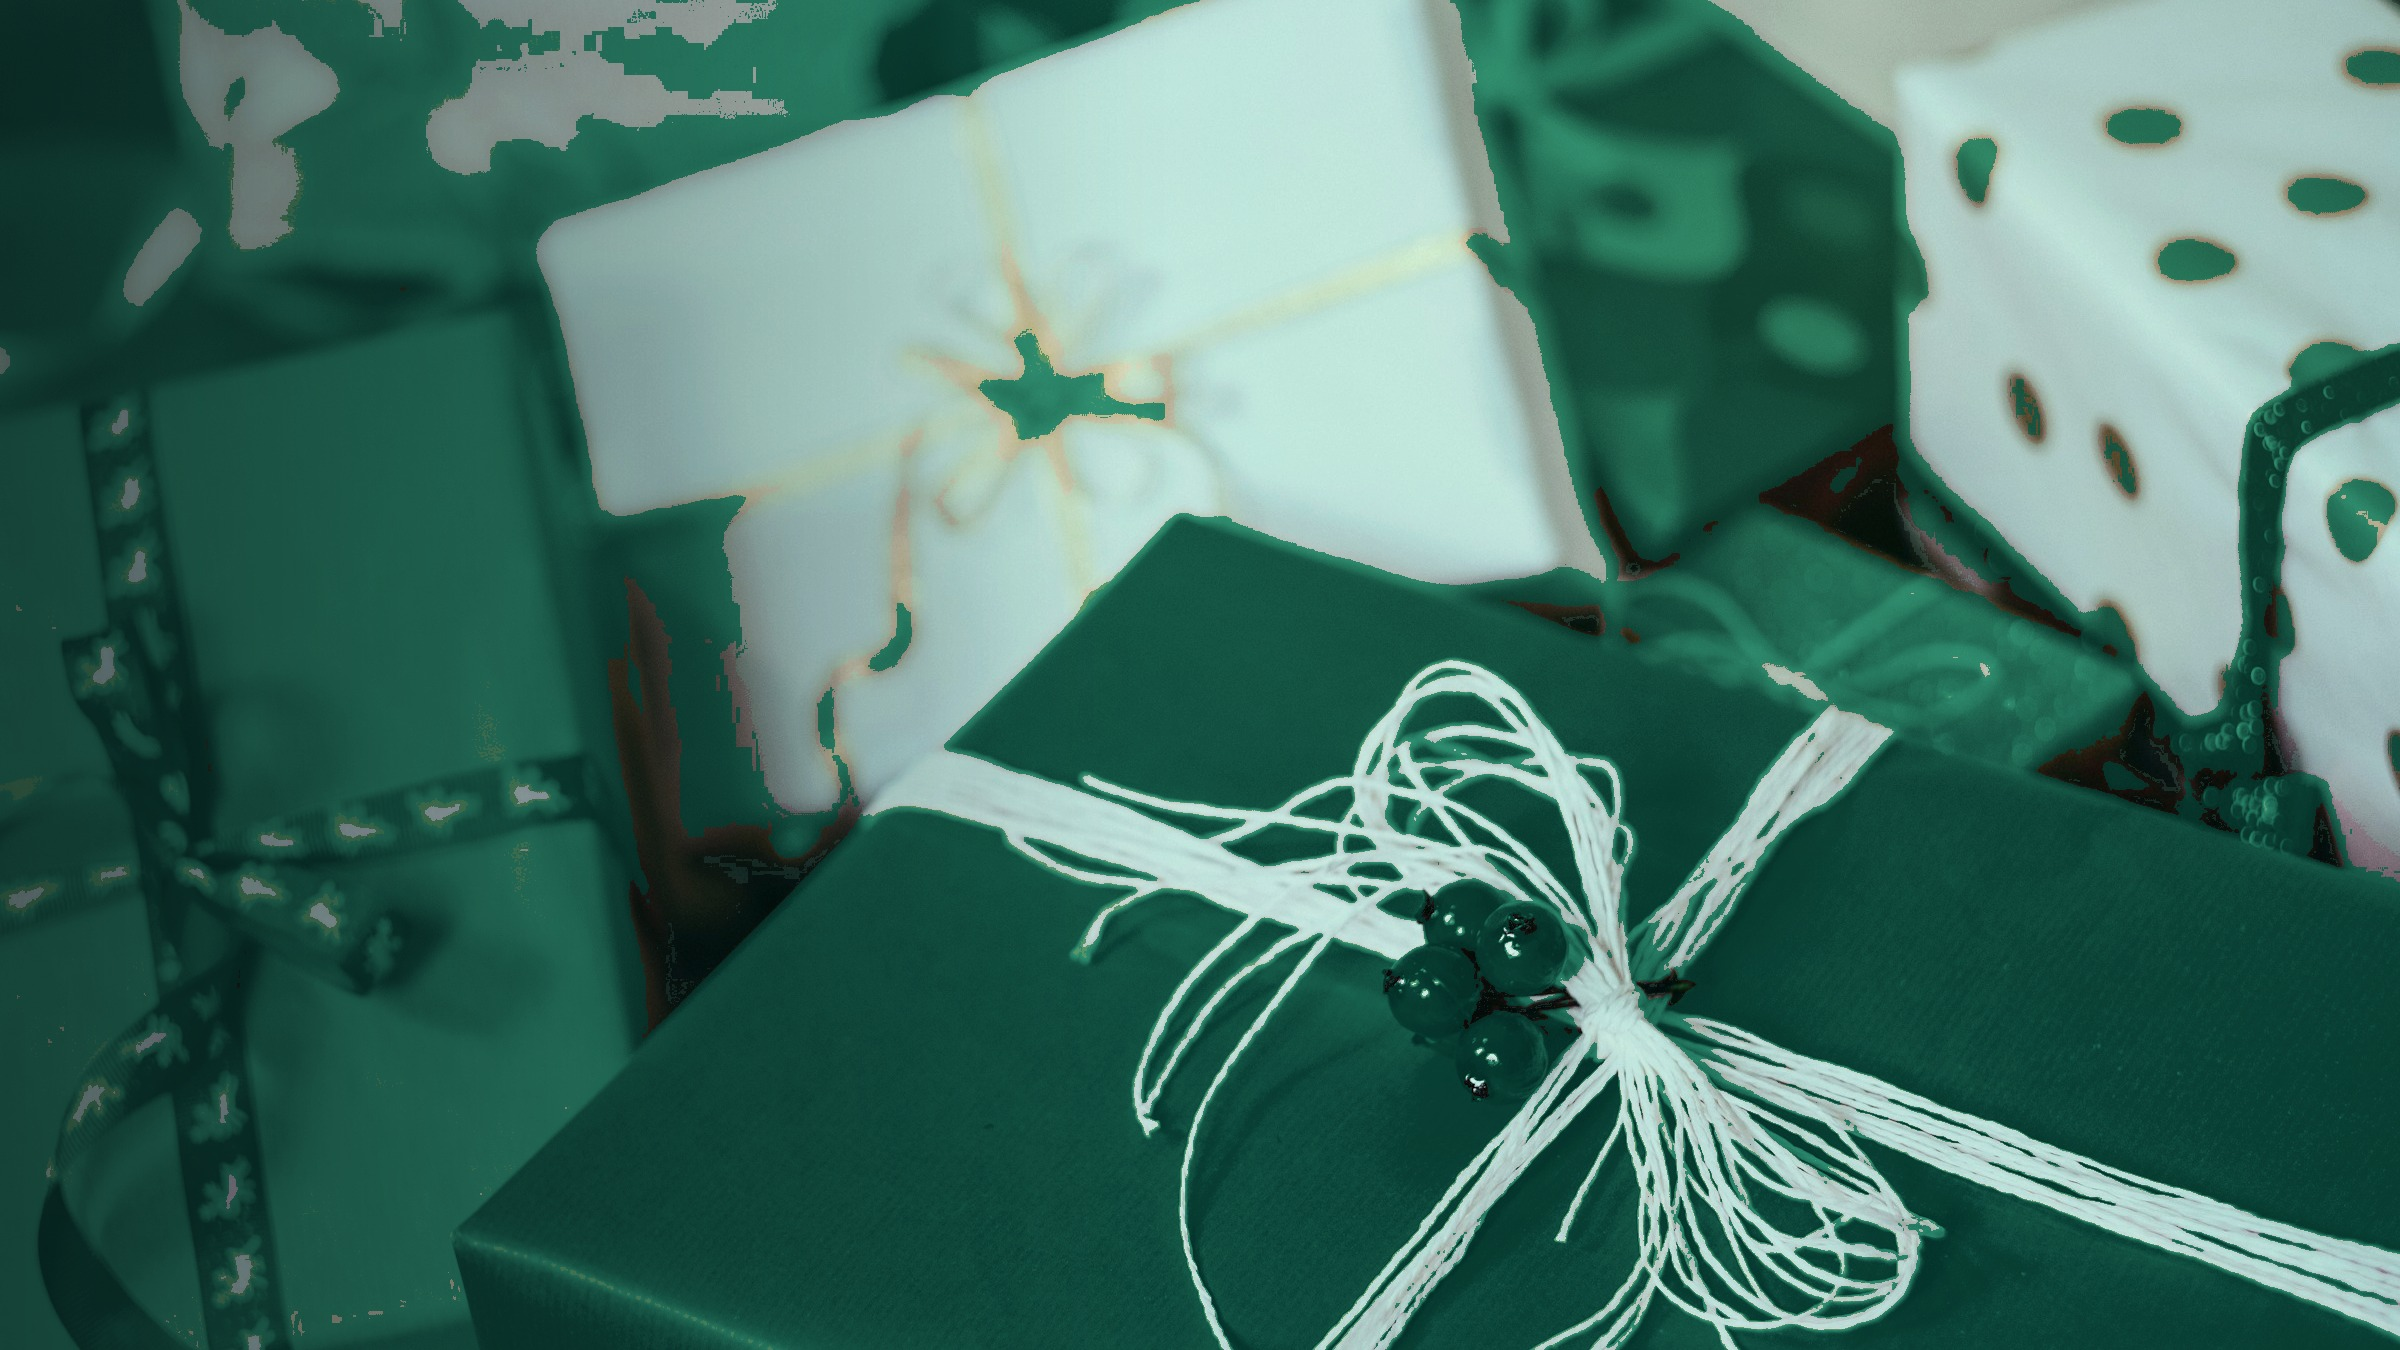
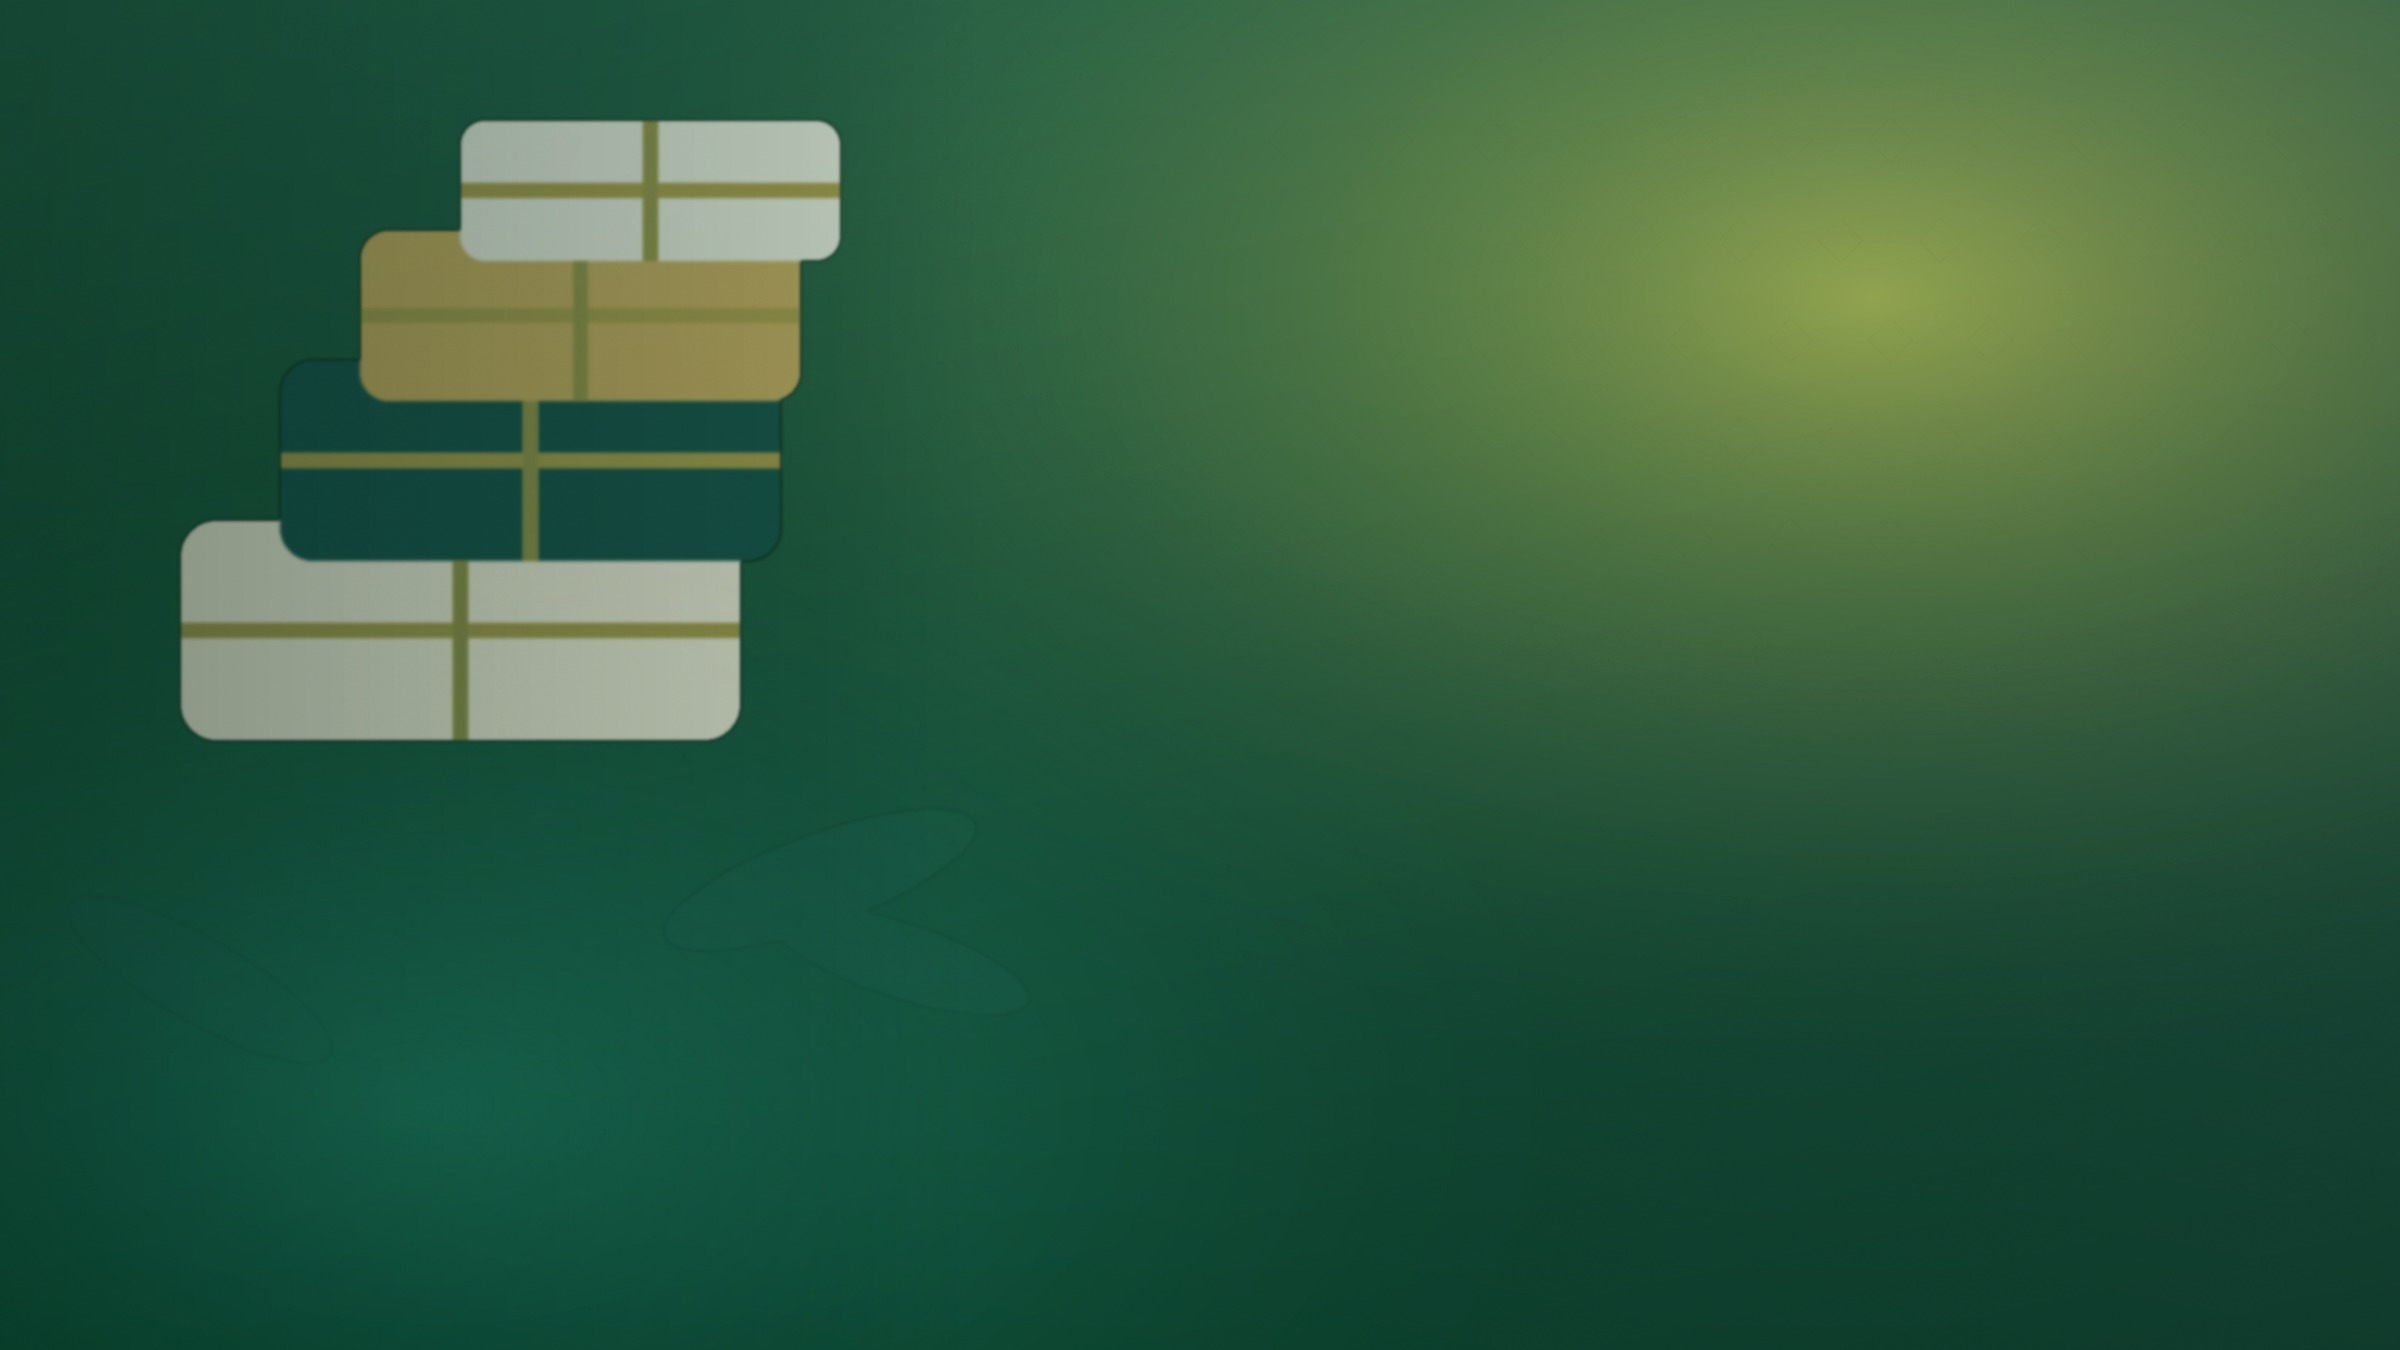
Replace glitched hero with clean teal cover and fix Arabic hero copy.

diff --git a/src/app/[locale]/page.tsx b/src/app/[locale]/page.tsx
@@ -20,9 +20,15 @@ export default async function HomePage({ params }: { params: Promise<{ locale: s
     storeApi.getCategories().catch(() => [] as Array<Record<string, unknown>>),
   ]);
 
-  // Always use the brand teal/gold cover (ignore outdated festive/red settings).
+  // Brand cover — always local (ignores outdated festive settings).
   const heroSrc = HERO_COVER;
-  const brand = String(settings?.storeName ?? t("common.brand"));
+  const brand =
+    locale === "ar"
+      ? t("common.brand")
+      : String(settings?.storeName || t("common.brand"));
+  // Prefer locale messages so Arabic never shows French CMS copy.
+  const heroTitle = t("home.heroTitle");
+  const heroSubtitle = t("home.heroSubtitle");
   const benefits = [
     { icon: ShieldCheck, label: t("home.benefit1") },
     { icon: Truck, label: t("home.benefit2") },
@@ -37,13 +43,14 @@ export default async function HomePage({ params }: { params: Promise<{ locale: s
           {/* Native img avoids Next image optimizer failures on some CDNs */}
           {/* eslint-disable-next-line @next/next/no-img-element */}
           <img
-            src={heroSrc}
-            alt={`${brand} — souk en ligne au Maroc`}
-            className="absolute inset-0 h-full w-full object-cover object-center animate-kenburns"
+            src={`${heroSrc}?v=2`}
+            alt={heroTitle}
+            className="absolute inset-0 h-full w-full object-cover object-[35%_center] md:object-center animate-kenburns"
             fetchPriority="high"
           />
-          <div className="absolute inset-0 bg-gradient-to-r from-[#0b1f1c]/88 via-[#0b1f1c]/50 to-[#0b1f1c]/20" />
-          <div className="absolute inset-0 bg-gradient-to-t from-[#0b1f1c]/70 via-transparent to-[#0b1f1c]/20" />
+          {/* Dark overlay behind copy: left in LTR, right in RTL (Arabic) */}
+          <div className="absolute inset-0 bg-gradient-to-r from-[#0b1f1c]/90 via-[#0b1f1c]/55 to-[#0b1f1c]/25 rtl:bg-gradient-to-l" />
+          <div className="absolute inset-0 bg-gradient-to-t from-[#0b1f1c]/75 via-transparent to-[#0b1f1c]/25" />
 
           <div className="relative mx-auto flex min-h-[78vh] max-w-7xl flex-col justify-end px-4 pb-14 pt-28 md:min-h-[86vh] md:px-6 md:pb-20">
             <div className="max-w-2xl animate-fade-up space-y-6 text-white">
@@ -51,10 +58,10 @@ export default async function HomePage({ params }: { params: Promise<{ locale: s
                 {brand}
               </p>
               <h1 className="max-w-xl text-xl font-medium leading-snug text-white/92 md:text-2xl">
-                {String(settings?.heroTitle || t("home.heroTitle"))}
+                {heroTitle}
               </h1>
               <p className="max-w-lg text-base text-white/75 md:text-lg">
-                {String(settings?.heroSubtitle || t("home.heroSubtitle"))}
+                {heroSubtitle}
               </p>
               <div className="flex flex-wrap gap-3 pt-1">
                 <Button asChild size="lg" className="bg-white text-[#0b1f1c] hover:bg-white/90">

diff --git a/scripts/make_hero.py b/scripts/make_hero.py
@@ -1,109 +1,115 @@
-"""Build a photographic Soukly hero: teal / forest green + soft gold."""
+"""Clean Soukly hero: soft teal atmosphere, no posterization."""
 from __future__ import annotations
 
 import math
 import os
-import urllib.request
 
 from PIL import Image, ImageDraw, ImageEnhance, ImageFilter, ImageOps
 
 ROOT = os.path.abspath(os.path.join(os.path.dirname(__file__), ".."))
-PUBLIC = os.path.join(ROOT, "public")
-OUT = os.path.join(PUBLIC, "hero-soukly.jpg")
-SRC = os.path.join(PUBLIC, "_hero_src.jpg")
-
-SRC_URL = (
-    "https://images.unsplash.com/photo-1513885535751-8b9238bd345a"
-    "?auto=format&fit=crop&w=2400&q=85"
-)
+OUT = os.path.join(ROOT, "public", "hero-soukly.jpg")
 
 
-def download() -> Image.Image:
-    if not os.path.exists(SRC) or os.path.getsize(SRC) < 50_000:
-        urllib.request.urlretrieve(SRC_URL, SRC)
-    return Image.open(SRC).convert("RGB")
-
-
-def remap_to_soukly(img: Image.Image) -> Image.Image:
-    img = ImageOps.exif_transpose(img)
+def build() -> Image.Image:
     w, h = 2400, 1350
-    img = ImageOps.fit(img, (w, h), method=Image.Resampling.LANCZOS)
+    img = Image.new("RGB", (w, h))
     px = img.load()
 
-    for y in range(h):
-        for x in range(w):
-            r, g, b = px[x, y]
-            mx = max(r, g, b)
-            mn = min(r, g, b)
-            sat = (mx - mn) / (mx + 1e-6)
-            lum = 0.2126 * r + 0.7152 * g + 0.0722 * b
-
-            # Reds / pinks / berries → rich teal/emerald (keep luminance)
-            if r > g + 18 and r > b + 10 and sat > 0.12:
-                # map luminance into teal channel mix
-                t = lum / 255
-                nr = int(8 + 55 * t + 10 * (g / 255))
-                ng = int(40 + 140 * t)
-                nb = int(36 + 110 * t)
-                # soft gold ribbon highlights when very bright
-                if lum > 200:
-                    nr = int(nr * 0.7 + 210 * 0.3)
-                    ng = int(ng * 0.7 + 180 * 0.3)
-                    nb = int(nb * 0.75 + 90 * 0.25)
-                px[x, y] = (
-                    max(0, min(255, nr)),
-                    max(0, min(255, ng)),
-                    max(0, min(255, nb)),
-                )
-                continue
-
-            # Soft cool cast on neutrals toward teal
-            if sat < 0.12:
-                nr = int(r * 0.86 + 18)
-                ng = int(g * 0.92 + 28)
-                nb = int(b * 0.90 + 26)
-                px[x, y] = (
-                    max(0, min(255, nr)),
-                    max(0, min(255, ng)),
-                    max(0, min(255, nb)),
-                )
-
-    # Light brand wash (not a heavy overlay)
-    wash = Image.new("RGB", (w, h))
-    wp = wash.load()
+    # Soft photographic teal gradient (readable for white RTL text on the start side)
     for y in range(h):
         t = y / (h - 1)
         for x in range(w):
             u = x / (w - 1)
-            gold = max(0.0, 1 - math.hypot(u - 0.8, t - 0.2) / 0.75) ** 2
-            wp[x, y] = (
-                min(255, int(20 + 70 * gold + 10 * (1 - t))),
-                min(255, int(55 + 45 * gold + 20 * (1 - t))),
-                min(255, int(48 + 8 * gold + 12 * (1 - t))),
+            # base forest → mid teal
+            r = int(10 + 22 * (1 - t) + 8 * u)
+            g = int(36 + 48 * (1 - t * 0.55) + 10 * (1 - u))
+            b = int(32 + 36 * (1 - t * 0.65))
+            # warm gold bloom top-right (image side for RTL: text is on the right)
+            gold = max(0.0, 1 - math.hypot(u - 0.78, t - 0.22) / 0.62) ** 2
+            r = min(255, int(r + 110 * gold))
+            g = min(255, int(g + 78 * gold))
+            b = min(255, int(b + 18 * gold))
+            # soft aqua glow bottom-left
+            aqua = max(0.0, 1 - math.hypot(u - 0.18, t - 0.82) / 0.55) ** 2
+            r = min(255, int(r + 12 * aqua))
+            g = min(255, int(g + 40 * aqua))
+            b = min(255, int(b + 36 * aqua))
+            px[x, y] = (r, g, b)
+
+    # Subtle Moroccan lattice (very soft)
+    lattice = Image.new("RGBA", (w, h), (0, 0, 0, 0))
+    ld = ImageDraw.Draw(lattice)
+    step = 100
+    for y in range(40, h - 40, step):
+        for x in range(40, w - 40, step):
+            cx = x + ((y // step) % 2) * (step // 2)
+            cy = y
+            ld.polygon(
+                [(cx, cy - 22), (cx + 22, cy), (cx, cy + 22), (cx - 22, cy)],
+                outline=(212, 175, 80, 22),
             )
+    lattice = lattice.filter(ImageFilter.GaussianBlur(0.8))
+    img = Image.alpha_composite(img.convert("RGBA"), lattice).convert("RGB")
 
-    img = Image.blend(img, wash, 0.16)
-    img = ImageEnhance.Color(img).enhance(1.05)
-    img = ImageEnhance.Contrast(img).enhance(1.08)
-    img = ImageEnhance.Brightness(img).enhance(1.04)
+    # Soft gift parcels on the LEFT (visual weight), keep RIGHT clearer for Arabic text
+    parcels = Image.new("RGBA", (w, h), (0, 0, 0, 0))
+    pd = ImageDraw.Draw(parcels)
+    boxes = [
+        (180, 520, 560, 220, 36, (236, 228, 210, 205)),
+        (280, 360, 500, 200, 32, (22, 78, 68, 215)),
+        (360, 230, 440, 170, 28, (198, 168, 96, 200)),
+        (460, 120, 380, 140, 24, (245, 240, 230, 190)),
+    ]
+    for x, y, bw, bh, rad, fill in boxes:
+        pd.rounded_rectangle([x, y, x + bw, y + bh], radius=rad, fill=fill)
+        mid = y + bh // 2
+        pd.rectangle([x, mid - 7, x + bw, mid + 7], fill=(212, 175, 80, 150))
+        pd.rectangle([x + bw // 2 - 7, y, x + bw // 2 + 7, y + bh], fill=(212, 175, 80, 130))
 
-    # Gentle left-side darkening for text legibility
+    # Soft leaf accents
+    for lx, ly, ang, sc, a in [
+        (820, 880, -20, 1.1, 55),
+        (900, 960, 18, 0.9, 45),
+        (200, 980, 30, 1.0, 40),
+    ]:
+        pts = []
+        for deg in list(range(0, 180, 10)) + list(range(180, 360, 10)):
+            rad = math.radians(deg)
+            px_ = math.cos(rad) * 150 * sc
+            py_ = math.sin(rad) * 42 * sc
+            ar = math.radians(ang)
+            rx = px_ * math.cos(ar) - py_ * math.sin(ar)
+            ry = px_ * math.sin(ar) + py_ * math.cos(ar)
+            pts.append((lx + rx, ly + ry))
+        pd.polygon(pts, fill=(34, 95, 80, a))
+
+    parcels = parcels.filter(ImageFilter.GaussianBlur(1.8))
+    img = Image.alpha_composite(img.convert("RGBA"), parcels).convert("RGB")
+
+    # Gentle vignette — stronger on left (image), lighter on right (Arabic copy)
     shade = Image.new("L", (w, h), 0)
     sd = ImageDraw.Draw(shade)
-    for i in range(0, 1100, 8):
-        alpha = int(max(0, 160 - i * 0.14))
-        sd.rectangle([i, 0, i + 8, h], fill=alpha)
-    shade = shade.filter(ImageFilter.GaussianBlur(40))
-    dark = Image.new("RGB", (w, h), (8, 24, 22))
+    for i in range(0, 900, 10):
+        alpha = int(max(0, 90 - i * 0.08))
+        sd.rectangle([i, 0, i + 10, h], fill=alpha)
+    shade = shade.filter(ImageFilter.GaussianBlur(50))
+    dark = Image.new("RGB", (w, h), (8, 22, 20))
     img = Image.composite(img, dark, ImageOps.invert(shade))
 
+    # Light film grain (subtle)
+    grain = Image.effect_noise((w, h), 12).convert("L")
+    grain_rgb = Image.merge("RGB", (grain, grain, grain))
+    img = Image.blend(img, grain_rgb, 0.03)
+
+    img = ImageEnhance.Color(img).enhance(1.04)
+    img = ImageEnhance.Contrast(img).enhance(1.05)
+    img = ImageEnhance.Brightness(img).enhance(1.02)
     return img
 
 
 def main() -> None:
-    photo = download()
-    out = remap_to_soukly(photo)
-    out.save(OUT, "JPEG", quality=92, optimize=True)
+    out = build()
+    out.save(OUT, "JPEG", quality=92, optimize=True, progressive=True)
     print("wrote", OUT, os.path.getsize(OUT))
 
 
